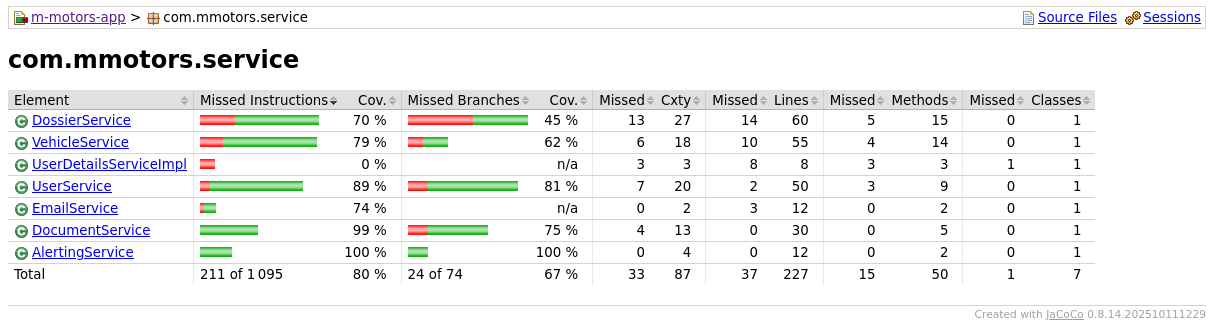
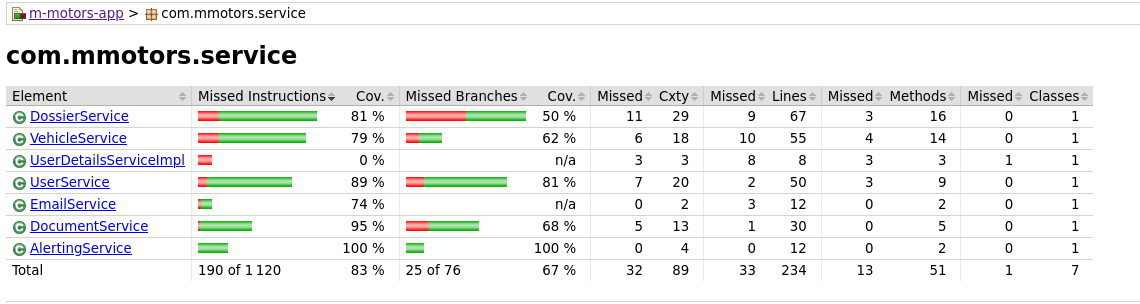
test: add tests for createDossier duplicate check and anonymizeDossiers, update README coverage stats

Changed region(s): [[0.0, 0.2664, 1.0, 1.0], [0.0, 0.0, 1.0, 0.0888], [0.0, 0.148, 0.2763, 0.2368]]

diff --git a/src/test/java/com/mmotors/service/DossierServiceTest.java b/src/test/java/com/mmotors/service/DossierServiceTest.java
@@ -400,4 +400,41 @@ public class DossierServiceTest {
                 testUser, testVehicleAchat, List.of(DossierStatus.EN_COURS, DossierStatus.VALIDE));
     }
 
+    /**
+     * Test create dossier throws exception when dossier active exists.
+     */
+    @Test
+    @DisplayName("createDossier - Lève exception si dossier actif existe déjà")
+    void createDossier_DossierActifExiste_ThrowsException() {
+        when(dossierRepository.existsByUserAndVehicleAndStatusIn(
+                testUser, testVehicleAchat, List.of(DossierStatus.EN_COURS, DossierStatus.VALIDE)))
+                .thenReturn(true);
+
+        assertThatThrownBy(() -> dossierService.createDossier(
+                testUser, testVehicleAchat, DossierType.ACHAT, "Comptant", false, null))
+                .isInstanceOf(IllegalStateException.class)
+                .hasMessageContaining("Vous avez déjà un dossier");
+    }
+
+    /**
+     * Test anonymize dossiers sets user to null.
+     */
+    @Test
+    @DisplayName("anonymizeDossiers - Anonymise les dossiers de l'utilisateur")
+    void anonymizeDossiers_SetsUserToNull() {
+        testDossierAchat.setUser(testUser);
+        testDossierLocation.setUser(testUser);
+
+        when(dossierRepository.findByUserOrderByCreatedAtDesc(testUser))
+                .thenReturn(List.of(testDossierAchat, testDossierLocation));
+        when(dossierRepository.saveAll(anyList()))
+                .thenReturn(List.of(testDossierAchat, testDossierLocation));
+
+        dossierService.anonymizeDossiers(testUser);
+
+        assertThat(testDossierAchat.getUser()).isNull();
+        assertThat(testDossierLocation.getUser()).isNull();
+        verify(dossierRepository).saveAll(anyList());
+    }
+
 }

diff --git a/README.md b/README.md
@@ -1,6 +1,6 @@
 # M-Motors
-![Coverage](https://img.shields.io/badge/coverage-80%25-brightgreen)
-![Tests](https://img.shields.io/badge/tests-49-blue)
+![Coverage](https://img.shields.io/badge/coverage-83%25-brightgreen)
+![Tests](https://img.shields.io/badge/tests-58-blue)
 ![Java](https://img.shields.io/badge/Java-17-orange)
 ![Spring Boot](https://img.shields.io/badge/Spring%20Boot-4.0.1-green)
 
@@ -107,9 +107,9 @@ open target/site/jacoco/index.html
 Ou ouvrir manuellement le fichier `target/site/jacoco/index.html` dans votre navigateur.
 
 ### Couverture actuelle
-- Couverture globale : **80%**
-- Nombre de tests : **49**
-- Types : tests unitaires (JUnit 5 + Mockito) + 1 test d'intégration (`@SpringBootTest`)
+- Couverture globale : **83%**
+- Nombre de tests : **58**
+- Types : 57 tests unitaires (JUnit 5 + Mockito) + 1 test d'intégration (`@SpringBootTest`)
 - Outil : JaCoCo 0.8.14
 
 ### Rapport de couverture
